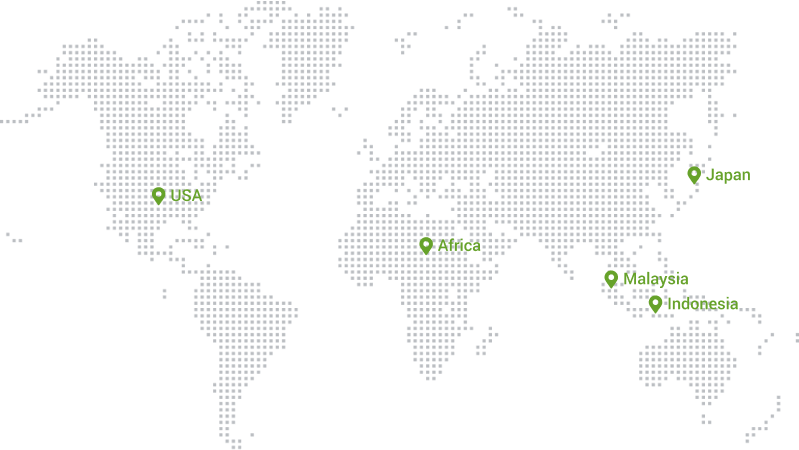
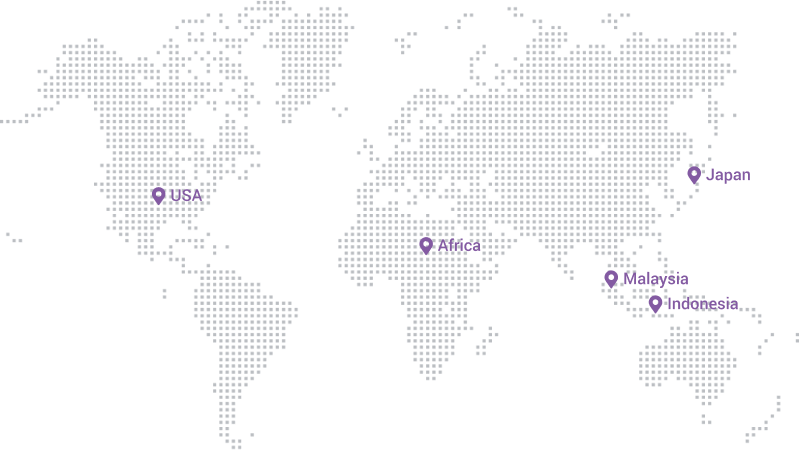
l

diff --git a/css/style.css b/css/style.css
@@ -42,7 +42,7 @@ h4 {
 h5 {
   font-size: 21px;
   font-weight: 400;
-  color: #81b441;
+  color: #835aa2;
 }
 h6 {
   font-size: 18px;
@@ -56,13 +56,13 @@ p {
 .cs-btn {
   font-size: 16px;
   font-weight: 500;
-  background-color: #81b441;
+  background-color: #835aa2;
   color: #ffffff;
   padding: 15px 43px;
   border-radius: 30px;
 }
 .cs-btn:hover {
-  background-color: #7aa841;
+  background-color: #4e1f72;
   color: #ffffff !important;
 }
 .cs-btn-2 {
@@ -139,7 +139,7 @@ a.topinfo-content {
   text-decoration: none;
 }
 .topinfo-content:hover {
-  color: #81b441;
+  color: #835aa2;
   text-decoration: none;
 }
 /* top info end */
@@ -173,10 +173,10 @@ a.topinfo-content {
 .activex {
   font-size: 18px;
   font-weight: 500;
-  color: #81b441;
+  color: #835aa2;
 }
 .nav-link:hover {
-  color: #81b441;
+  color: #835aa2;
 }
 
 .nav-btn {
@@ -266,10 +266,10 @@ a.topinfo-content {
   border-radius: 5px;
 }
 .alert-cs svg {
-  fill: #81b441;
+  fill: #835aa2;
 }
 .alert-cs h6 {
-  color: #81b441;
+  color: #835aa2;
 }
 .about-content {
   align-items: flex-start;
@@ -320,7 +320,7 @@ a.topinfo-content {
   font-size: 67px;
   font-weight: 600;
   line-height: 1;
-  color: #81b441;
+  color: #835aa2;
 }
 .counter-content p {
   font-family: "Open Sans", sans-serif;
@@ -338,7 +338,7 @@ a.topinfo-content {
 .company-heading h2::before {
   content: "";
   position: absolute;
-  background-color: #81b441;
+  background-color: #835aa2;
   width: 50px;
   height: 2px;
   bottom: 0;
@@ -448,7 +448,7 @@ a.topinfo-content {
 .discount-content h2::before {
   content: "";
   position: absolute;
-  background-color: #81b441;
+  background-color: #835aa2;
   width: 50px;
   height: 2px;
   bottom: 0;
@@ -511,7 +511,7 @@ a.topinfo-content {
   border-radius: 5px;
 }
 .testimonial-content > h6 {
-  color: #81b441;
+  color: #835aa2;
 }
 .testimonial-content > h2 {
   padding: 20px 0;
@@ -521,7 +521,7 @@ a.topinfo-content {
   opacity: 1;
   height: 0px;
   border: none;
-  border-top: 4px solid #81b441;
+  border-top: 4px solid #835aa2;
   margin-top: 0;
 }
 .testimonial-para {
@@ -548,7 +548,7 @@ a.topinfo-content {
   padding-top: 25px;
 }
 .testomonial-profile p {
-  color: #81b441;
+  color: #835aa2;
 }
 /* testimonial end */
 /* insight start  */
@@ -590,13 +590,13 @@ a.topinfo-content {
   transition: 0.3 all ease-in-out;
 }
 .insight-content a:hover {
-  color: #81b441;
+  color: #835aa2;
   transition: 0.3 all ease-in-out;
 }
 .insight-content h6 {
   font-size: 13px;
   font-weight: 400;
-  color: #81b441;
+  color: #835aa2;
 }
 /* insight end  */
 /* sponsor start */
@@ -667,7 +667,7 @@ a.topinfo-content {
   color: #ffffff;
 }
 .footer-list a:hover {
-  color: #81b441;
+  color: #835aa2;
 }
 ul li {
   list-style: none;
@@ -727,7 +727,7 @@ ul li {
   color: #fff;
 }
 .arrow {
-  color: #7aa841;
+  color: #835aa2;
   margin: 0 5px;
 }
 .banner-row p {
@@ -744,7 +744,7 @@ ul li {
 /* banner end  */
 /* about start  */
 .about-row h4 {
-  color: #7fca35;
+  color: #835aa2;
 }
 .achivement-heading {
   max-width: 636px;
@@ -758,7 +758,7 @@ ul li {
 .company-heading2 h2::before {
   content: "";
   position: absolute;
-  background-color: #81b441;
+  background-color: #835aa2;
   width: 50px;
   height: 2px;
   bottom: 0;
@@ -806,7 +806,7 @@ ul li {
   background-size: cover;
 }
 .service-img {
-  background: #7fca35;
+  background: #835aa2;
   height: 56px;
   width: 56px;
   display: flex;
@@ -939,7 +939,7 @@ form label {
 }
 
 .location-card h3 {
-  color: #7fca35;
+  color: #835aa2;
 }
 .location-card p {
   color: #54595f;
@@ -992,7 +992,7 @@ form label {
 }
 
 .team-content p {
-  color: #7fca35;
+  color: #835aa2;
   margin-bottom: 52px;
 }
 
@@ -1048,7 +1048,7 @@ form label {
   position: absolute;
   top: 20px;
   right: 20px;
-  background: #7fca35;
+  background: #835aa2;
   border-radius: 30px;
   padding: 7px 14px;
   text-decoration: none;
@@ -1071,7 +1071,7 @@ form label {
 }
 .blog-sidebar > form button {
   color: #fff;
-  background: #7fca35;
+  background: #835aa2;
   width: 10%;
   border-radius: 0px 5px 5px 0px;
 }
@@ -1110,11 +1110,11 @@ form label {
   font-weight: 500;
 }
 .single-popular-content a:hover {
-  color: #7fca35;
+  color: #835aa2;
 }
 .single-popular-content p {
   font-size: 13px;
-  color: #7fca35;
+  color: #835aa2;
 }
 
 /* -------------------single blog page ------------------- */
@@ -1132,10 +1132,10 @@ form label {
   text-decoration: none;
 }
 .breadcrumb li a:hover {
-  color: #7fca35;
+  color: #835aa2;
 }
 .breadcrumb li span {
-  color: #7fca35;
+  color: #835aa2;
 }
 .meta-data {
   padding: 0;
@@ -1193,7 +1193,7 @@ form label {
 }
 .call-content a {
   text-decoration: none;
-  color: #7fca35;
+  color: #835aa2;
   font-weight: 600;
   font-size: 28px;
 }
@@ -1208,8 +1208,8 @@ form label {
 }
 
 .single-faqfeature:hover {
-  background-color: #7fca354f;
-  border: 2px solid #7fca35;
+  background-color: #835aa21c;
+  border: 2px solid #835aa2;
   transition: 0.3s all ease-in-out;
 }
 
@@ -1276,4 +1276,31 @@ form label {
 
 .sponsor img:hover {
   scale: 1.07;
+}
+.dropdown-toggle {
+  position: relative;
+  transition: 0.2s all ease-in-out;
+}
+.dropdown-toggle::after {
+  border-top: none;
+  border-right: none;
+  border-bottom: 0;
+  border-left: none;
+  position: absolute;
+  background: url(../images/downarrowblack.png);
+  background-repeat: no-repeat;
+  height: 13px;
+  width: 13px;
+  top: 56%;
+  transform: translateY(-50%);
+  transition: 0.2s all ease-in-out;
+}
+.dropdown-toggle:hover::after {
+  background: url(../images/downarrow.png);
+  background-repeat: no-repeat;
+  height: 13px;
+  width: 13px;
+  top: 56%;
+  transform: translateY(-50%);
+  transition: 0.2s all ease-in-out;
 }
